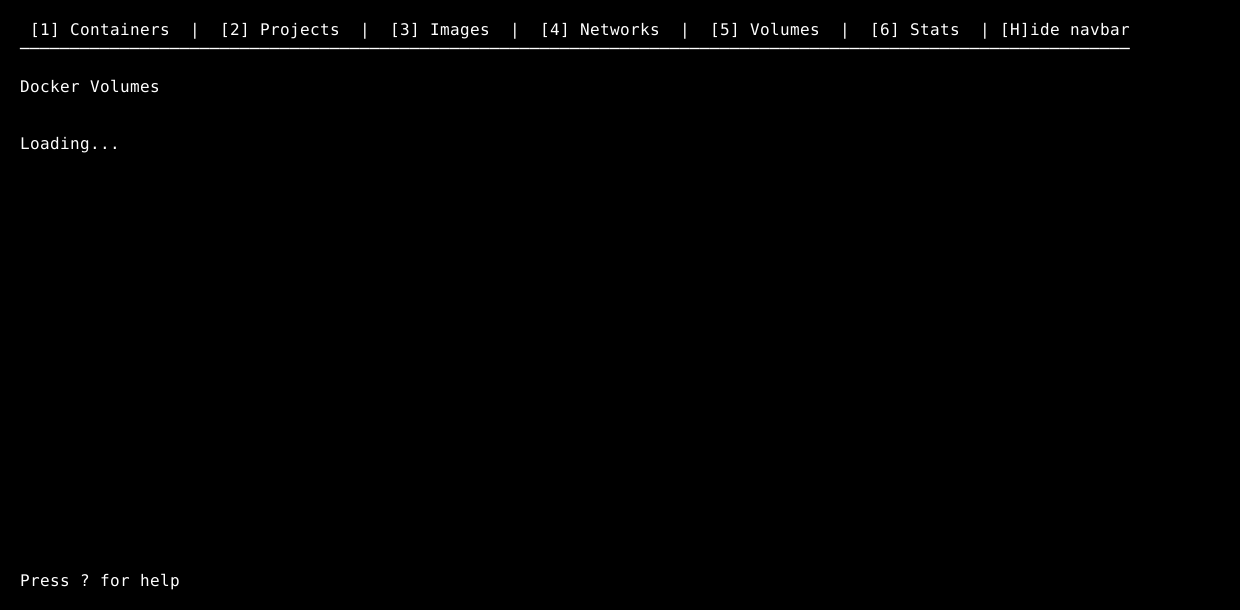
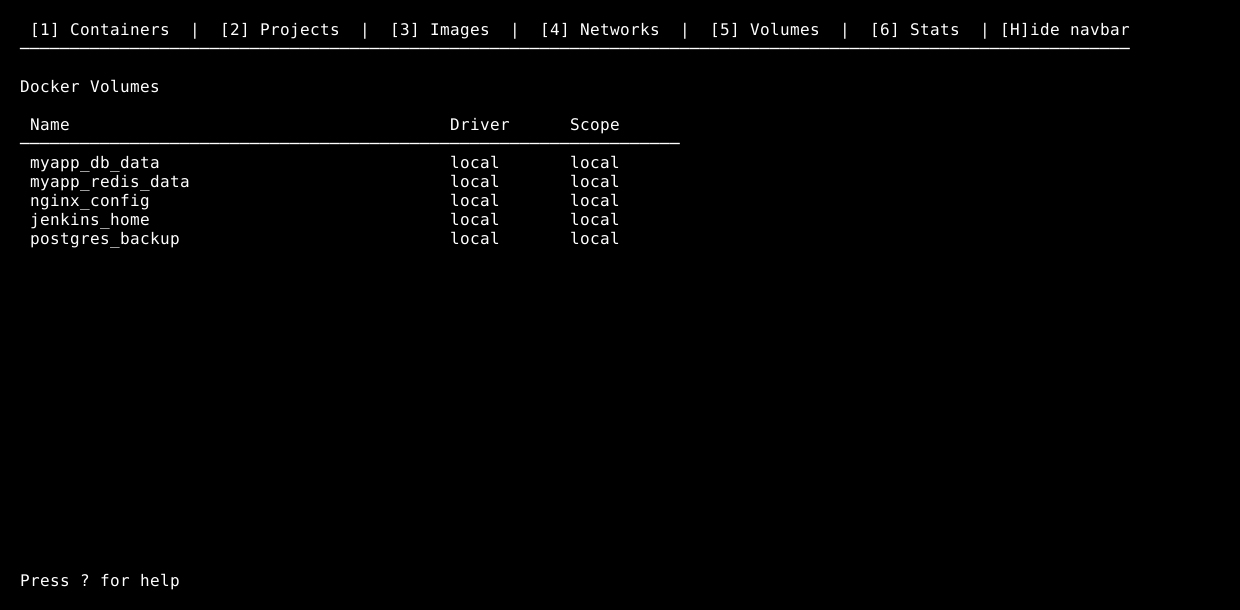
fix: resolve screenshot generation issues
- Remove freeze installation from CI workflow (not needed)
- Add screenshots build tag to go run command in CI
- Fix loading state issue by setting loading=false after mock data
- Fix Go version to 1.23 in CI
- Regenerate all screenshots without 'Loading...' message

🤖 Generated with Claude Code (https://claude.ai/code)

Changed region(s): [[0.0, 0.1869, 0.5516, 0.4049]]

diff --git a/internal/ui/screenshot_helpers.go b/internal/ui/screenshot_helpers.go
@@ -13,6 +13,10 @@ import (
 // Helper methods for screenshot generation
 // These are only available when building with the "screenshots" build tag
 
+func (m *Model) SetLoading(loading bool) {
+	m.loading = loading
+}
+
 func (m *Model) GetComposeProcessListViewModel() *ComposeProcessListViewModel {
 	return &m.composeProcessListViewModel
 }

diff --git a/cmd/generate-screenshots/main.go b/cmd/generate-screenshots/main.go
@@ -131,6 +131,9 @@ func generateScreenshot(ss screenshot, outputDir string) error {
 		ss.setupModel(model)
 	}
 
+	// Set loading to false after injecting mock data
+	model.SetLoading(false)
+
 	// Render view
 	view := model.View()
 
